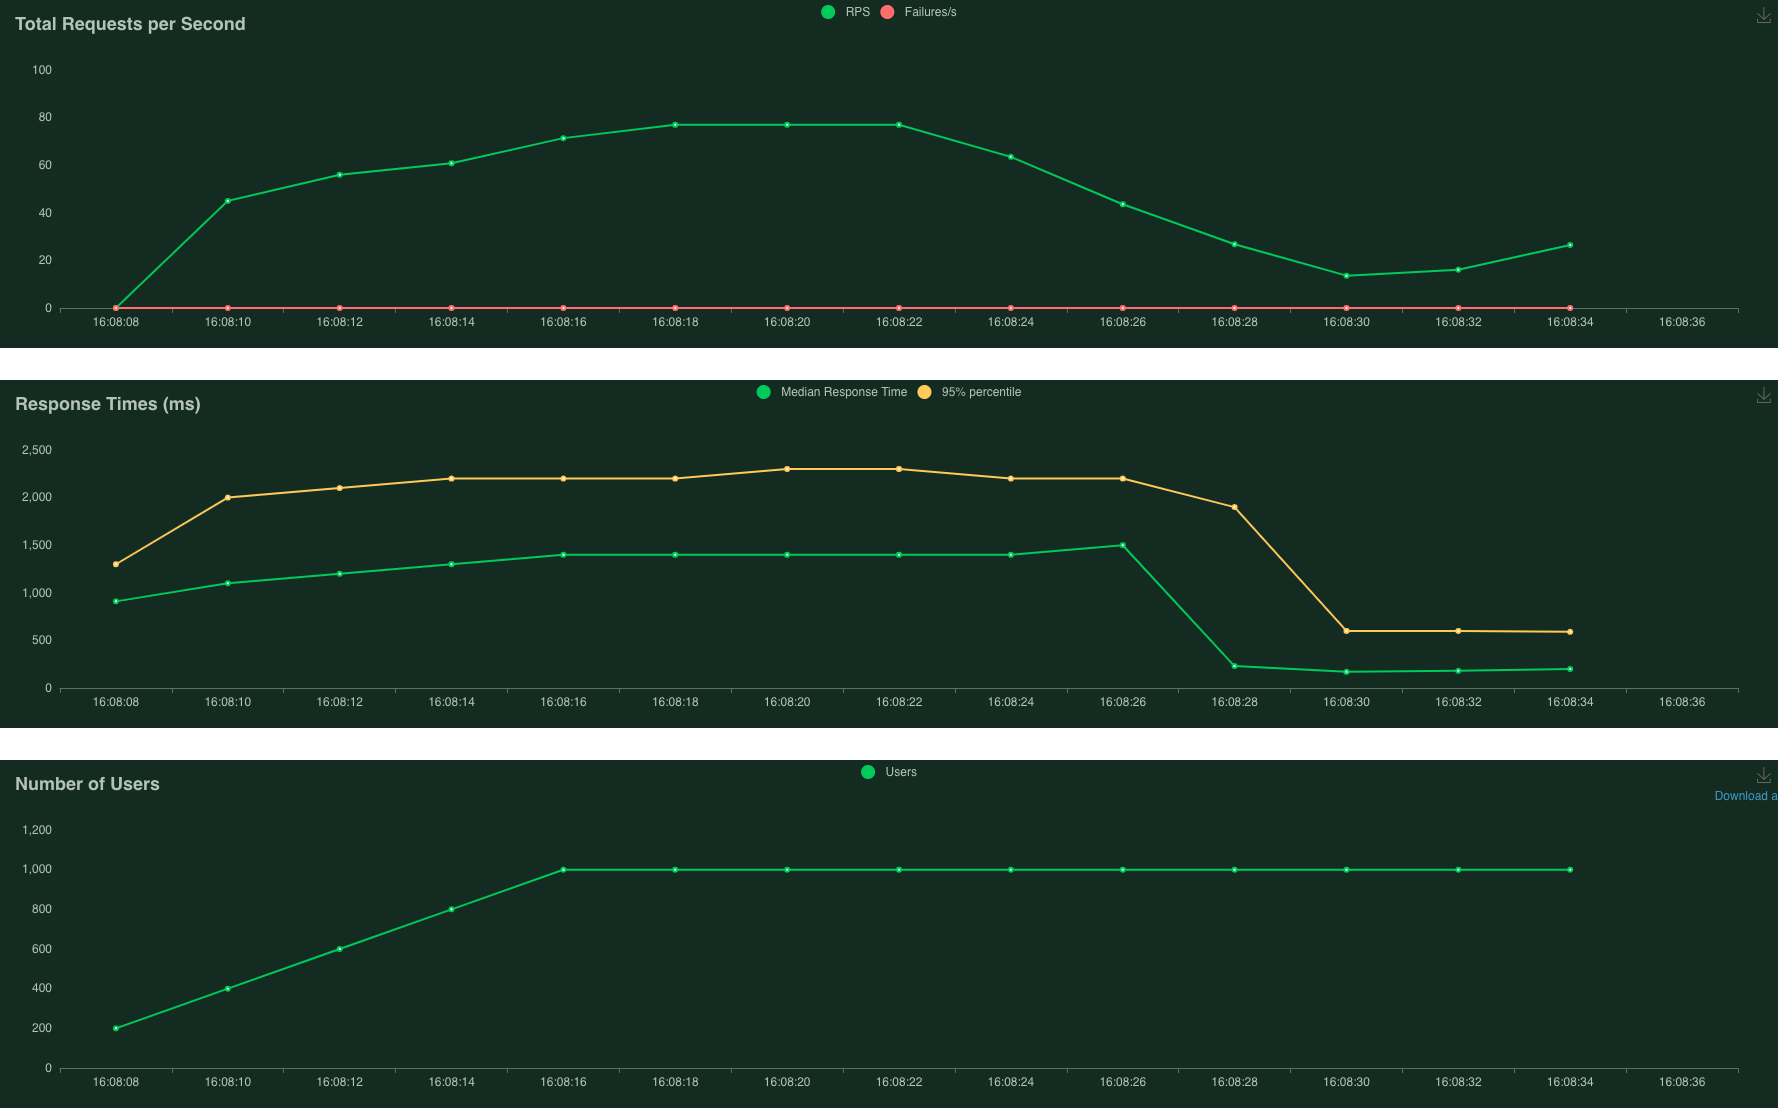
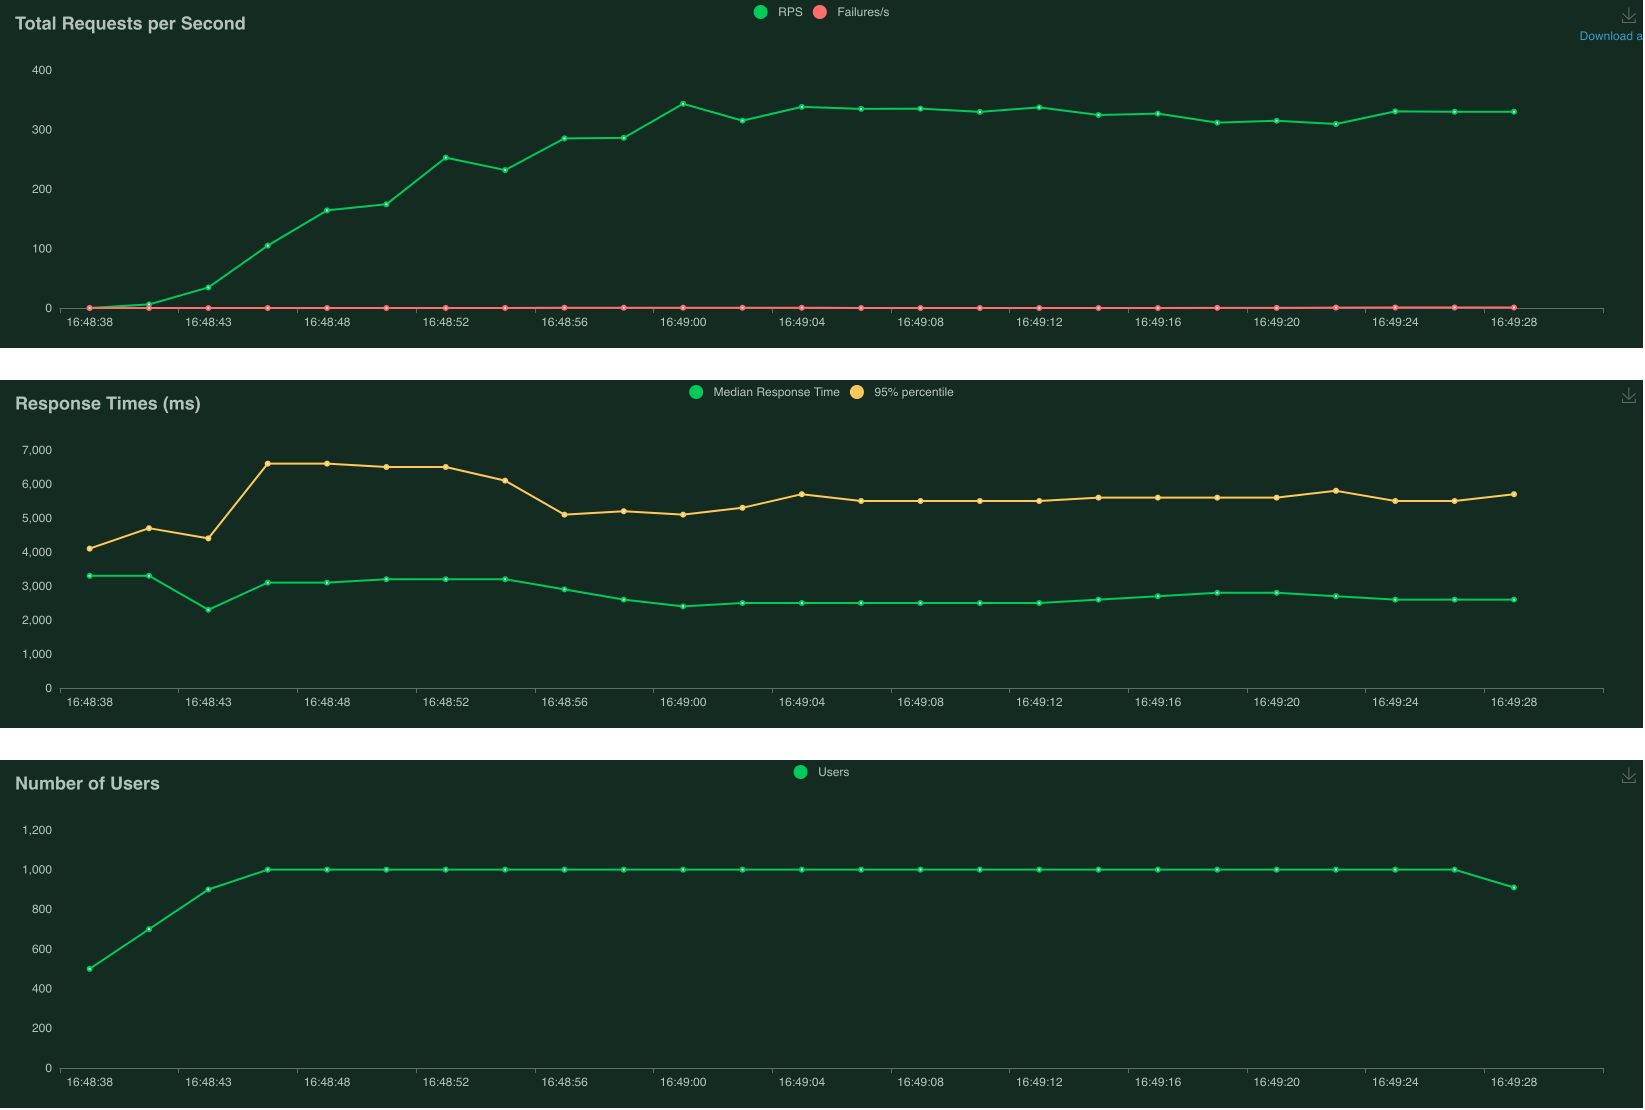
updated results after removing locust wait time and added section with init time findings

diff --git a/client/locustfile.py b/client/locustfile.py
@@ -9,7 +9,7 @@ import base64
 import os
 
 from dotenv import load_dotenv
-from locust import HttpUser, between, task
+from locust import HttpUser, task
 
 load_dotenv()
 
@@ -24,8 +24,6 @@ data = {"name": OBJECT_NAME, "image": image_encoded}
 
 
 class WebsiteUser(HttpUser):
-    wait_time = between(15, 30)
-
     @task
     def index(self):
         self.client.post(URL, json=data)

diff --git a/README.md b/README.md
@@ -55,23 +55,43 @@ App Engine has a [default timeout of 10 minutes](https://cloud.google.com/build/
 
 While the timeout can be adjusted, I decided to keep the App Engine deployment simple and only use it to try load testing and autoscaling. Thus, I excluded PeekingDuck from App Engine - CV instances here only need save the received image to Cloud Storage without performing any inference. More details can be found in the [source code](server/app_engine_save_img/main.py). We will simulate an actual real-world use case with PeekingDuck when using Kubernetes Engine.
 
+### Without Autoscaling
+
 First, let's see how it performs without autoscaling by setting the `max_instances` config in `app.yaml` to only 1 instance. The following settings were used for the load test:
 - **Number of users**: 1000
 - **Spawn rate**: Ramp up at 100 users/sec till max number of users is reached
 
-<img src='images/app_engine/1_inst_1000_users_100_spawn_rate.png' width='500'><br>
-*Limited to 1 instance - 16% failure*
+<img src='images/app_engine/1_inst_1000_users_100_spawn_rate.png'><br>
+*Limited to 1 instance - 83% failure*
 
-The first plot above (Total Requests per Second) shows some failed requests, represented by the **red line**. The second plot above (Response Times) shows the response time gradually creeping up to about 10 seconds on average when the failures started happening.
+The first plot above (Total Requests per Second) shows many failed requests, represented by the **red line**. The second plot above (Response Times) shows the 95% percentile of response time gradually creeping up to about 12 seconds.
+
+### With Autoscaling
 
 Next, let's remove the `max_instances` limitation and see how App Engine performs under the same load conditions.
 
-<img src='images/app_engine/unlimited_inst_1000_users_100_spawn_rate.png' width='500'><br>
+<img src='images/app_engine/unlimited_inst_1000_users_100_spawn_rate.png'><br>
 *No limit to instances - 0% failure*
 
-The first plot above (Total Requests per Second) shows that there were no failed requests when autoscaling is enabled. The Requests per Second (RPS) also attains a higher value. The second plot above (Response Times) also show more reasonable response times of about 1.5 seconds compared to 10 seconds previously. Clearly, this run has benefited from autoscaling.
+The first plot above (Total Requests per Second) shows that there were no failed requests when autoscaling is enabled. The number of Requests per Second (RPS) stabilises at about 300. The second plot above (Response Times) shows the 95% percentile of response time of about 6 seconds with an average of 3 seconds. Clearly, this run has benefited from autoscaling.
 
-<img src='images/app_engine/app_engine_instances.png' width='500'><br>
+<img src='images/app_engine/app_engine_instances.png'><br>
 *Google App Engine Instances*
 
 The screenshot above from Google App Engine's GUI shows that 13 instances have been spun up to handle the load. The number of requests handled vary across the board - it is likely that the instances which have handled less requests were spun up later.
+
+### Adding Initialisation Time
+
+It is quite common for CV inference instances to require initialisation time for importing heavy packages such as TensorFlow and OpenCV, or for downloading model weights. This means that while App Engine has spun up a new instance to handle the increased traffic, this new instance is not quite ready to receive traffic yet, which may lead to failures. 
+
+I added a 10 second delay and ran the same load test with autoscaling enabled. The failure rate was 100% (unfortunately not captured in plots) at the beginning, as expected, as the instances were still undergoing "initialisation". As more instances completed initialisation, the failure rate started to drop until it reached about 4% at the end of this run. 
+
+<img src='images/app_engine/unlimited_inst_10_sec_init.png'><br>
+*With 10 second delay - 4% failure*
+
+The plots above did not capture the ramp up to 1000 users, and therefore we cannot observe the 100% failure rate. However, the red line in first plot above (Total Requests per Second) shows that there were still some failed requests about halfway through the run. The median response time in second plot above (Response Times) is also much higher at about 10 seconds at the beginning, before it started dropping and stabilising at 3 seconds.
+
+
+## Other Findings
+
+- A timestamp is appended to the filename of each resulting image that is saved to Google Cloud Storage. Multiple resulting images could be produced within the same second, and since they have the same filename, the file would keep getting overwritten. This has caused errors in the past as it exceeded the rate limit of change requests in Cloud Storage. This was fixed by including microseconds to the filename (nanoseconds would only be required for a >1,000 FPS camera which is not realistic for our use case).
